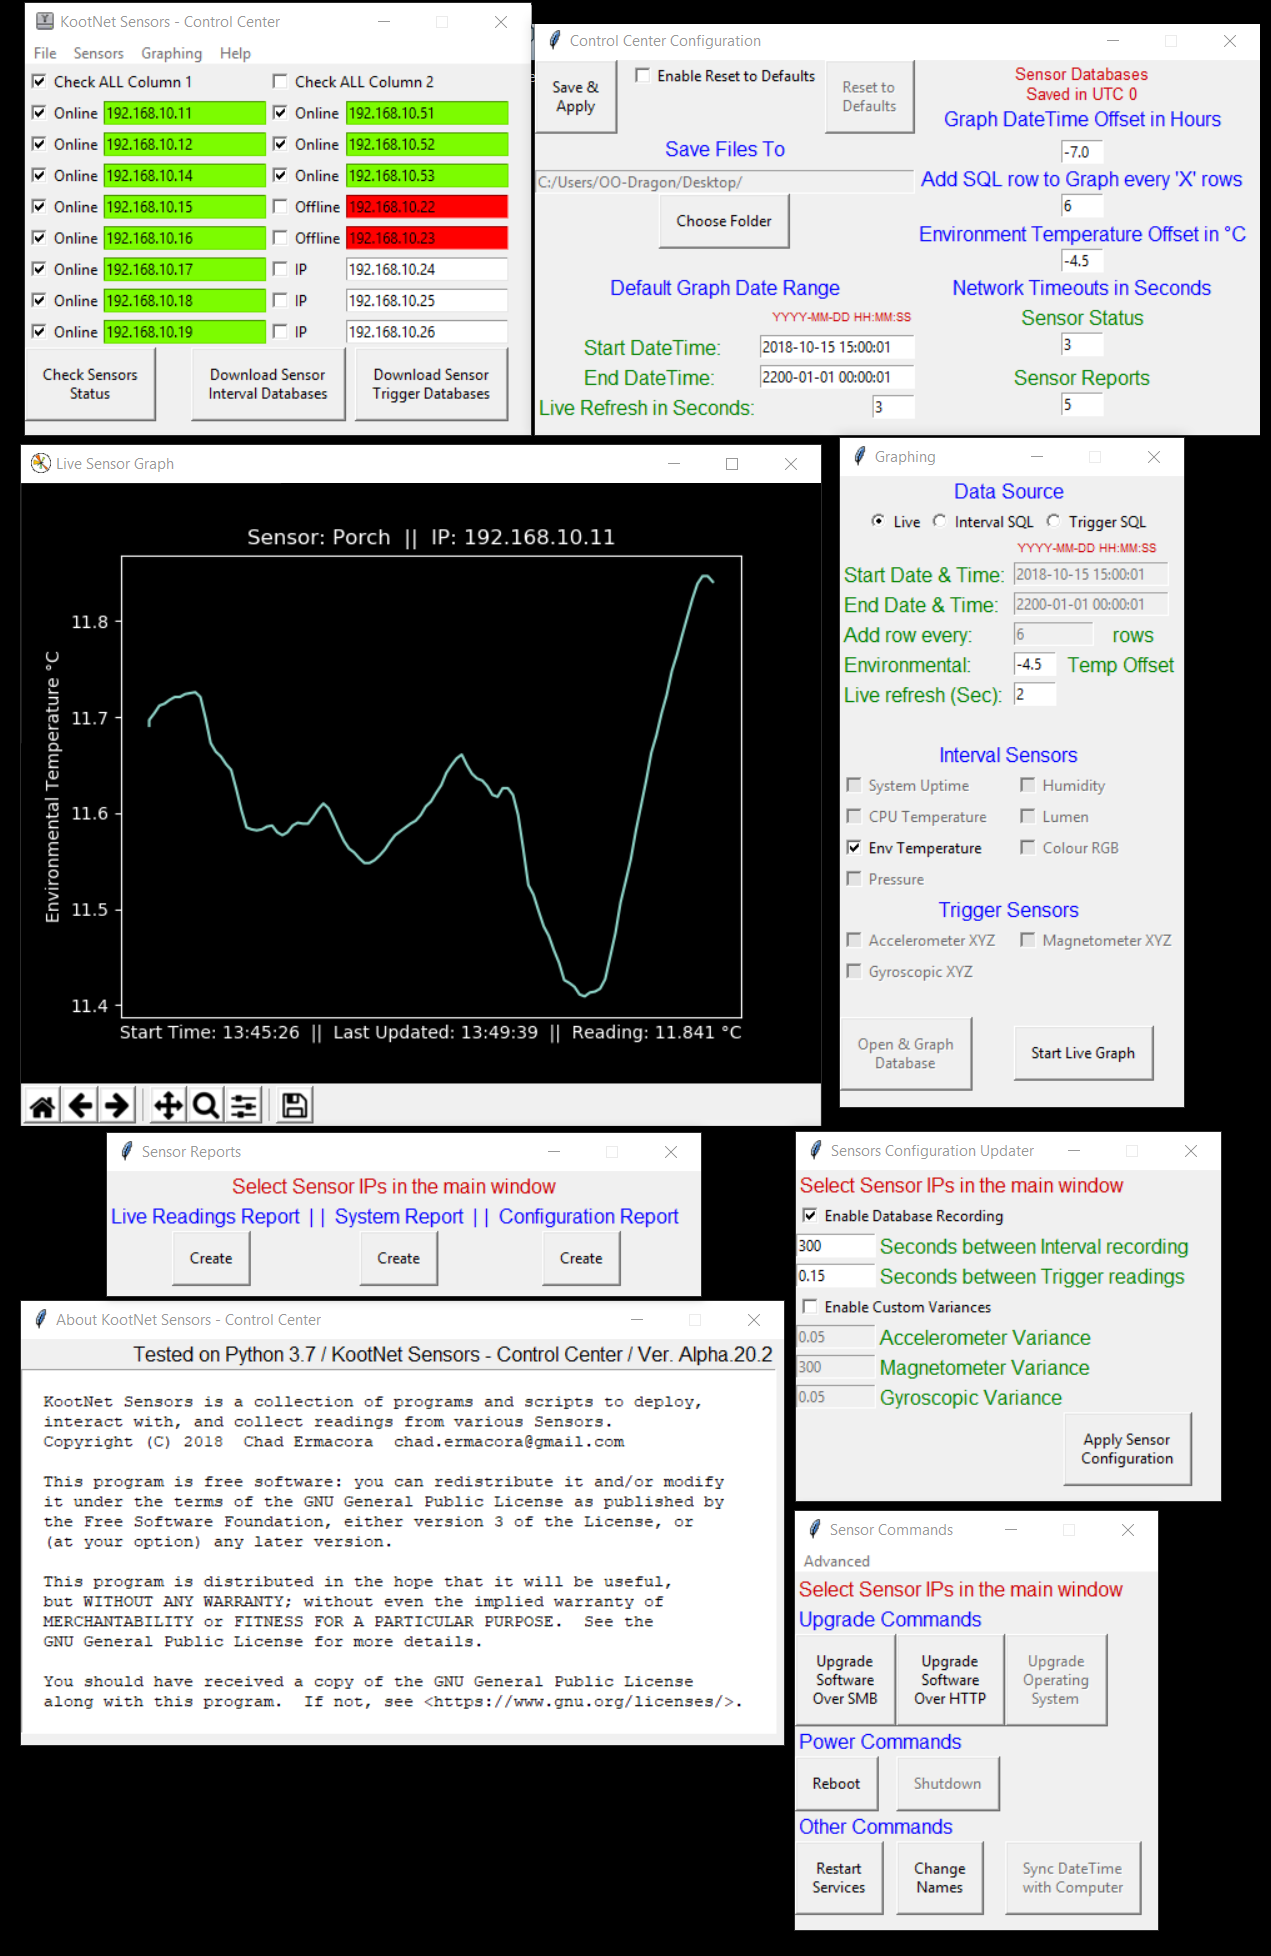
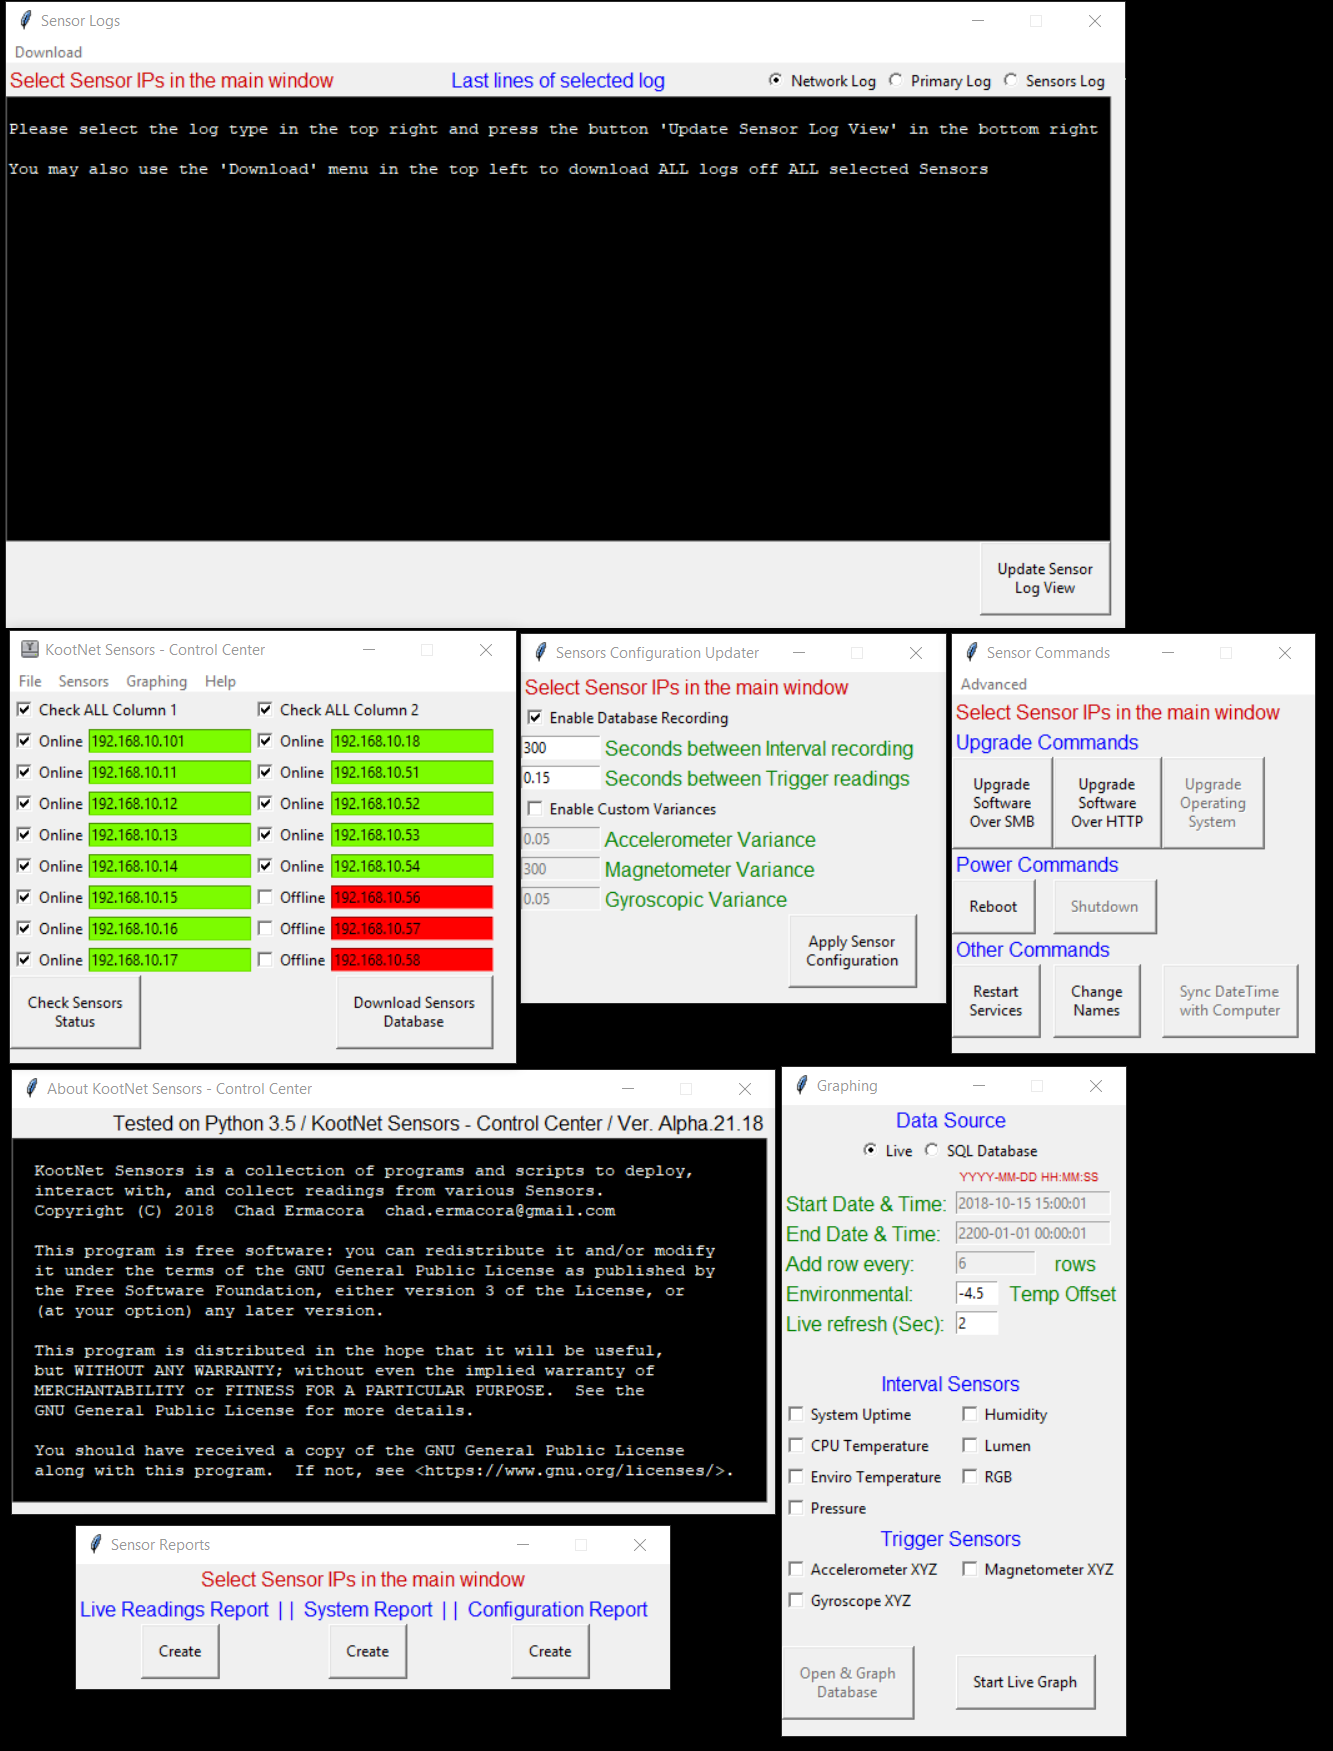
Updating version

diff --git a/app_config.py b/app_config.py
@@ -21,7 +21,7 @@ from datetime import datetime
 
 import app_logger
 
-app_version = "Tested on Python 3.5 / KootNet Sensors - Control Center / Ver. Alpha.21.17"
+app_version = "Tested on Python 3.5 / KootNet Sensors - Control Center / Ver. Alpha.21.18"
 
 
 class CreateDefaultConfigSettings:
